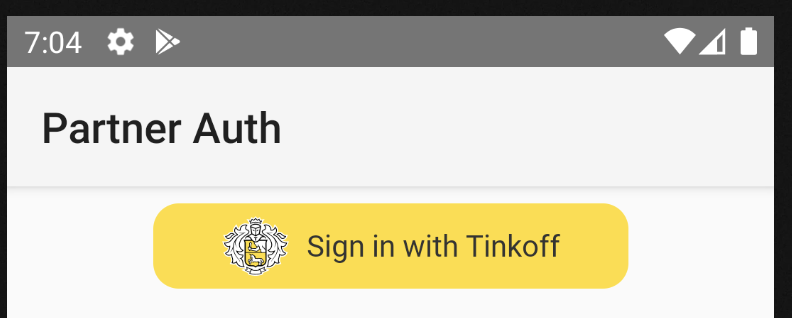
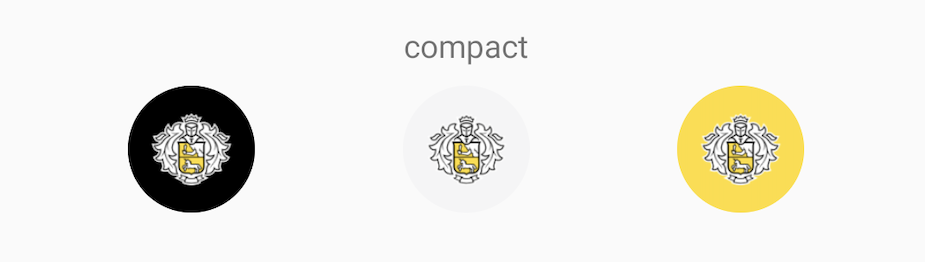
MC-6146 fix readme

diff --git a/README.md b/README.md
@@ -42,7 +42,7 @@ implementation "ru.tinkoff.core.tinkoffauth:tinkoff-id:${version}"
 2. Запустить партнерскую авторизацию, передав ваш App/Deep link (по данному uri приложение группы Тинькофф вернется обратно после процесса авторизации)
 ```kotlin
     val intent = tinkoffIdAuth.createTinkoffAuthIntent(partnerUri)
-    startActivity(intent)
+startActivity(intent)
 ```
 3. После прохождения пользователем авторизации в приложении Тинькофф, произойдет переход в ваше приложение. В intent.data будет храниться информация по авторизации.
 
@@ -72,7 +72,7 @@ tinkoffIdAuth.obtainTokenPayload(refreshToken)
 
 ```kotlin
     fun signOutByAccessToken(accessToken: String): TinkoffCall<Unit>
-    fun signOutByRefreshToken(refreshToken: String): TinkoffCall<Unit>
+fun signOutByRefreshToken(refreshToken: String): TinkoffCall<Unit>
 ```
 
 ### Хранение Refresh Token
@@ -82,28 +82,35 @@ tinkoffIdAuth.obtainTokenPayload(refreshToken)
 
 ### UI
 
-Чтобы подробнее ознакомиться со стайлгайдом по размещению кнопок перейдите по [ссылке](https://www.figma.com/file/TsgXOeAqFEePVIosk0W7kP/Tinkoff-ID)
+Чтобы подробнее ознакомиться со стайлгайдом по размещению кнопок перейдите по [ссылке](https://www.figma.com/file/Yj3o7yQotahvBxfIKhBmJc/Tinkoff-ID-guide)
 
 Библиотека предоставляет кнопку `TinkoffIdSignInButton.kt`.
-Пример по ее настройке доступен в `PartnerActivity.kt` и `activity_partner.xml`. Размер кнопки настраивается через атрибут
-`app:tinkoff_id_size`, который может иметь значение `compact` или `standard` (по умолчанию). Подробное описание
-различий находится в комментарии в `TinkoffIdSignInButton.kt`.
+Пример по ее настройке доступен в `PartnerActivity.kt` и `activity_partner.xml`.
+Форма кнопки настраивается через атрибут `app:tinkoff_id_compact`, который может иметь значение `true` или `false` (по умолчанию).
+Стиль кнопки можно изменить с помощью атрибута `app:tinkoff_id_style`, который может иметь значение `black` / `gray` / `yellow` (по умолчанию).
+Если кнопка имеет стандартную форму, то можно дополнительно настроить основной текст (`app:tinkoff_id_title`), дополнительный текст на бейдже (`app:tinkoff_id_badge`), радиусы углов (`app:tinkoff_id_corner_radius`) и шрифт текста (`app:tinkoff_id_font`).
 Пример добавления кнопки:
 
 ```xml
-    <ru.tinkoff.core.tinkoffId.ui.TinkoffIdSignInButton
+     <ru.tinkoff.core.tinkoffId.ui.TinkoffIdSignInButton
+        android:id="@+id/standardButtonTinkoffAuth"
         android:layout_width="wrap_content"
-        android:layout_height="wrap_content"
-        app:tinkoff_id_size="compact" />
+        android:layout_height="60dp"
+        app:tinkoff_id_compact="false"
+        app:tinkoff_id_title="Sign in with"
+        app:tinkoff_id_badge="Cashback up to 5%"
+        app:tinkoff_id_style="yellow"
+        app:tinkoff_id_corner_radius="8dp"
+        app:tinkoff_id_font="@font/neue_haas_unica_w1g"/>
 ```
 
 Виды кнопок:
 
-   compact
-   ![compact.png](imgs/tinkoff_id_sign_in_button/compact.png)
+compact
+![compact.png](imgs/tinkoff_id_sign_in_button/compact.png)
 
-   standard
-   ![standard.png](imgs/tinkoff_id_sign_in_button/standard.png)
+standard
+![standard.png](imgs/tinkoff_id_sign_in_button/standard.png)
 
 ## Структура публичной части SDK
 
